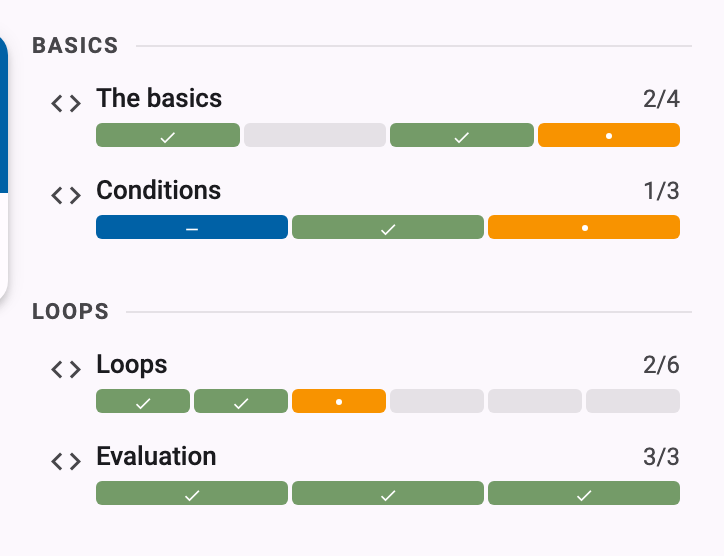
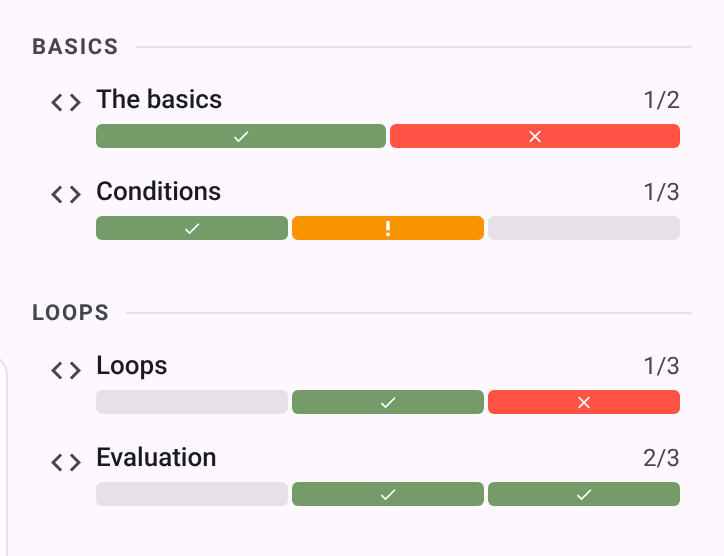
Re-shoot the course sidebar with the new progress bar colours
Adds a course11-sidebar-progress state scenario so the shot shows every
segment state instead of depending on random seed submissions.

Claude-Session: https://claude.ai/code/session_01JbCoaz2rdCgWcFTSNTca9C

diff --git a/screenshots/state/course11-sidebar-progress.setup.rb b/screenshots/state/course11-sidebar-progress.setup.rb
@@ -1,0 +1,59 @@
+# bin/rails runner screenshots/state/course11-sidebar-progress.setup.rb
+#
+# Gives the SEC-2 user (126) a mix of exercise statuses in course 11's series
+# 51-54, so every segment state of the course sidebar progress bars shows up:
+# solved (green check), wrong (red cross), solved earlier but latest
+# submission wrong (amber exclamation mark) and not started (grey).
+#
+# The seeds are random, so user 126 has no submissions in course 11 and may
+# not even be registered for it. The script registers them when needed and
+# adds submissions before each series deadline. Submission code lives on disk,
+# not in the database, so the ids of what it creates go into a marker file in
+# the dodona checkout's tmp/ for the teardown. Idempotent: submissions from an
+# earlier run are removed first.
+
+user = User.find(126)
+course = Course.find(11)
+membership_marker = Rails.root.join('tmp/docs-sidebar-progress-membership')
+submissions_marker = Rails.root.join('tmp/docs-sidebar-progress-submissions')
+
+unless CourseMembership.exists?(user: user, course: course)
+  CourseMembership.create!(user: user, course: course, status: :student)
+  FileUtils.touch(membership_marker)
+end
+
+if File.exist?(submissions_marker)
+  Submission.where(id: File.read(submissions_marker).split.map(&:to_i)).destroy_all
+  File.delete(submissions_marker)
+end
+created = []
+
+results = {
+  correct: JSON.parse(Rails.root.join('db/results/correct-result.json').read, symbolize_names: true),
+  wrong: JSON.parse(Rails.root.join('db/results/wrong-result.json').read, symbolize_names: true)
+}
+
+# Per series: one entry per exercise (content pages are skipped), each a list
+# of results in submission order. An empty list leaves the exercise unstarted.
+plan = {
+  51 => [%i[correct], %i[wrong]],
+  52 => [%i[correct wrong], %i[correct], []],
+  53 => [%i[wrong correct], %i[wrong]],
+  54 => [%i[correct], %i[correct]]
+}
+
+plan.each do |series_id, exercises|
+  series = Series.find(series_id)
+  start = (series.deadline || Time.zone.now) - 3.days
+  series.exercises.zip(exercises).each do |exercise, statuses|
+    Array(statuses).each_with_index do |status, i|
+      submission = Submission.new(evaluate: false, skip_rate_limit_check: true, user: user, course: course,
+                                  exercise: exercise, created_at: start + i.hours, code: "print(input())\n")
+      submission.save_result(results.fetch(status))
+      created << submission.id
+    end
+  end
+end
+
+File.write(submissions_marker, created.join("\n"))
+Rails.cache.clear

diff --git a/screenshots/state/course11-sidebar-progress.teardown.rb b/screenshots/state/course11-sidebar-progress.teardown.rb
@@ -1,0 +1,24 @@
+# bin/rails runner screenshots/state/course11-sidebar-progress.teardown.rb
+#
+# Undoes course11-sidebar-progress.setup.rb: removes the submissions it created
+# (listed in its marker file) and the course membership if it created that too.
+# Idempotent.
+
+user = User.find(126)
+course = Course.find(11)
+membership_marker = Rails.root.join('tmp/docs-sidebar-progress-membership')
+
+submissions_marker = Rails.root.join('tmp/docs-sidebar-progress-submissions')
+
+if File.exist?(submissions_marker)
+  Submission.where(id: File.read(submissions_marker).split.map(&:to_i)).destroy_all
+  File.delete(submissions_marker)
+end
+ActivityStatus.where(user: user, series: course.series).delete_all
+
+if File.exist?(membership_marker)
+  CourseMembership.where(user: user, course: course).destroy_all
+  File.delete(membership_marker)
+end
+
+Rails.cache.clear
